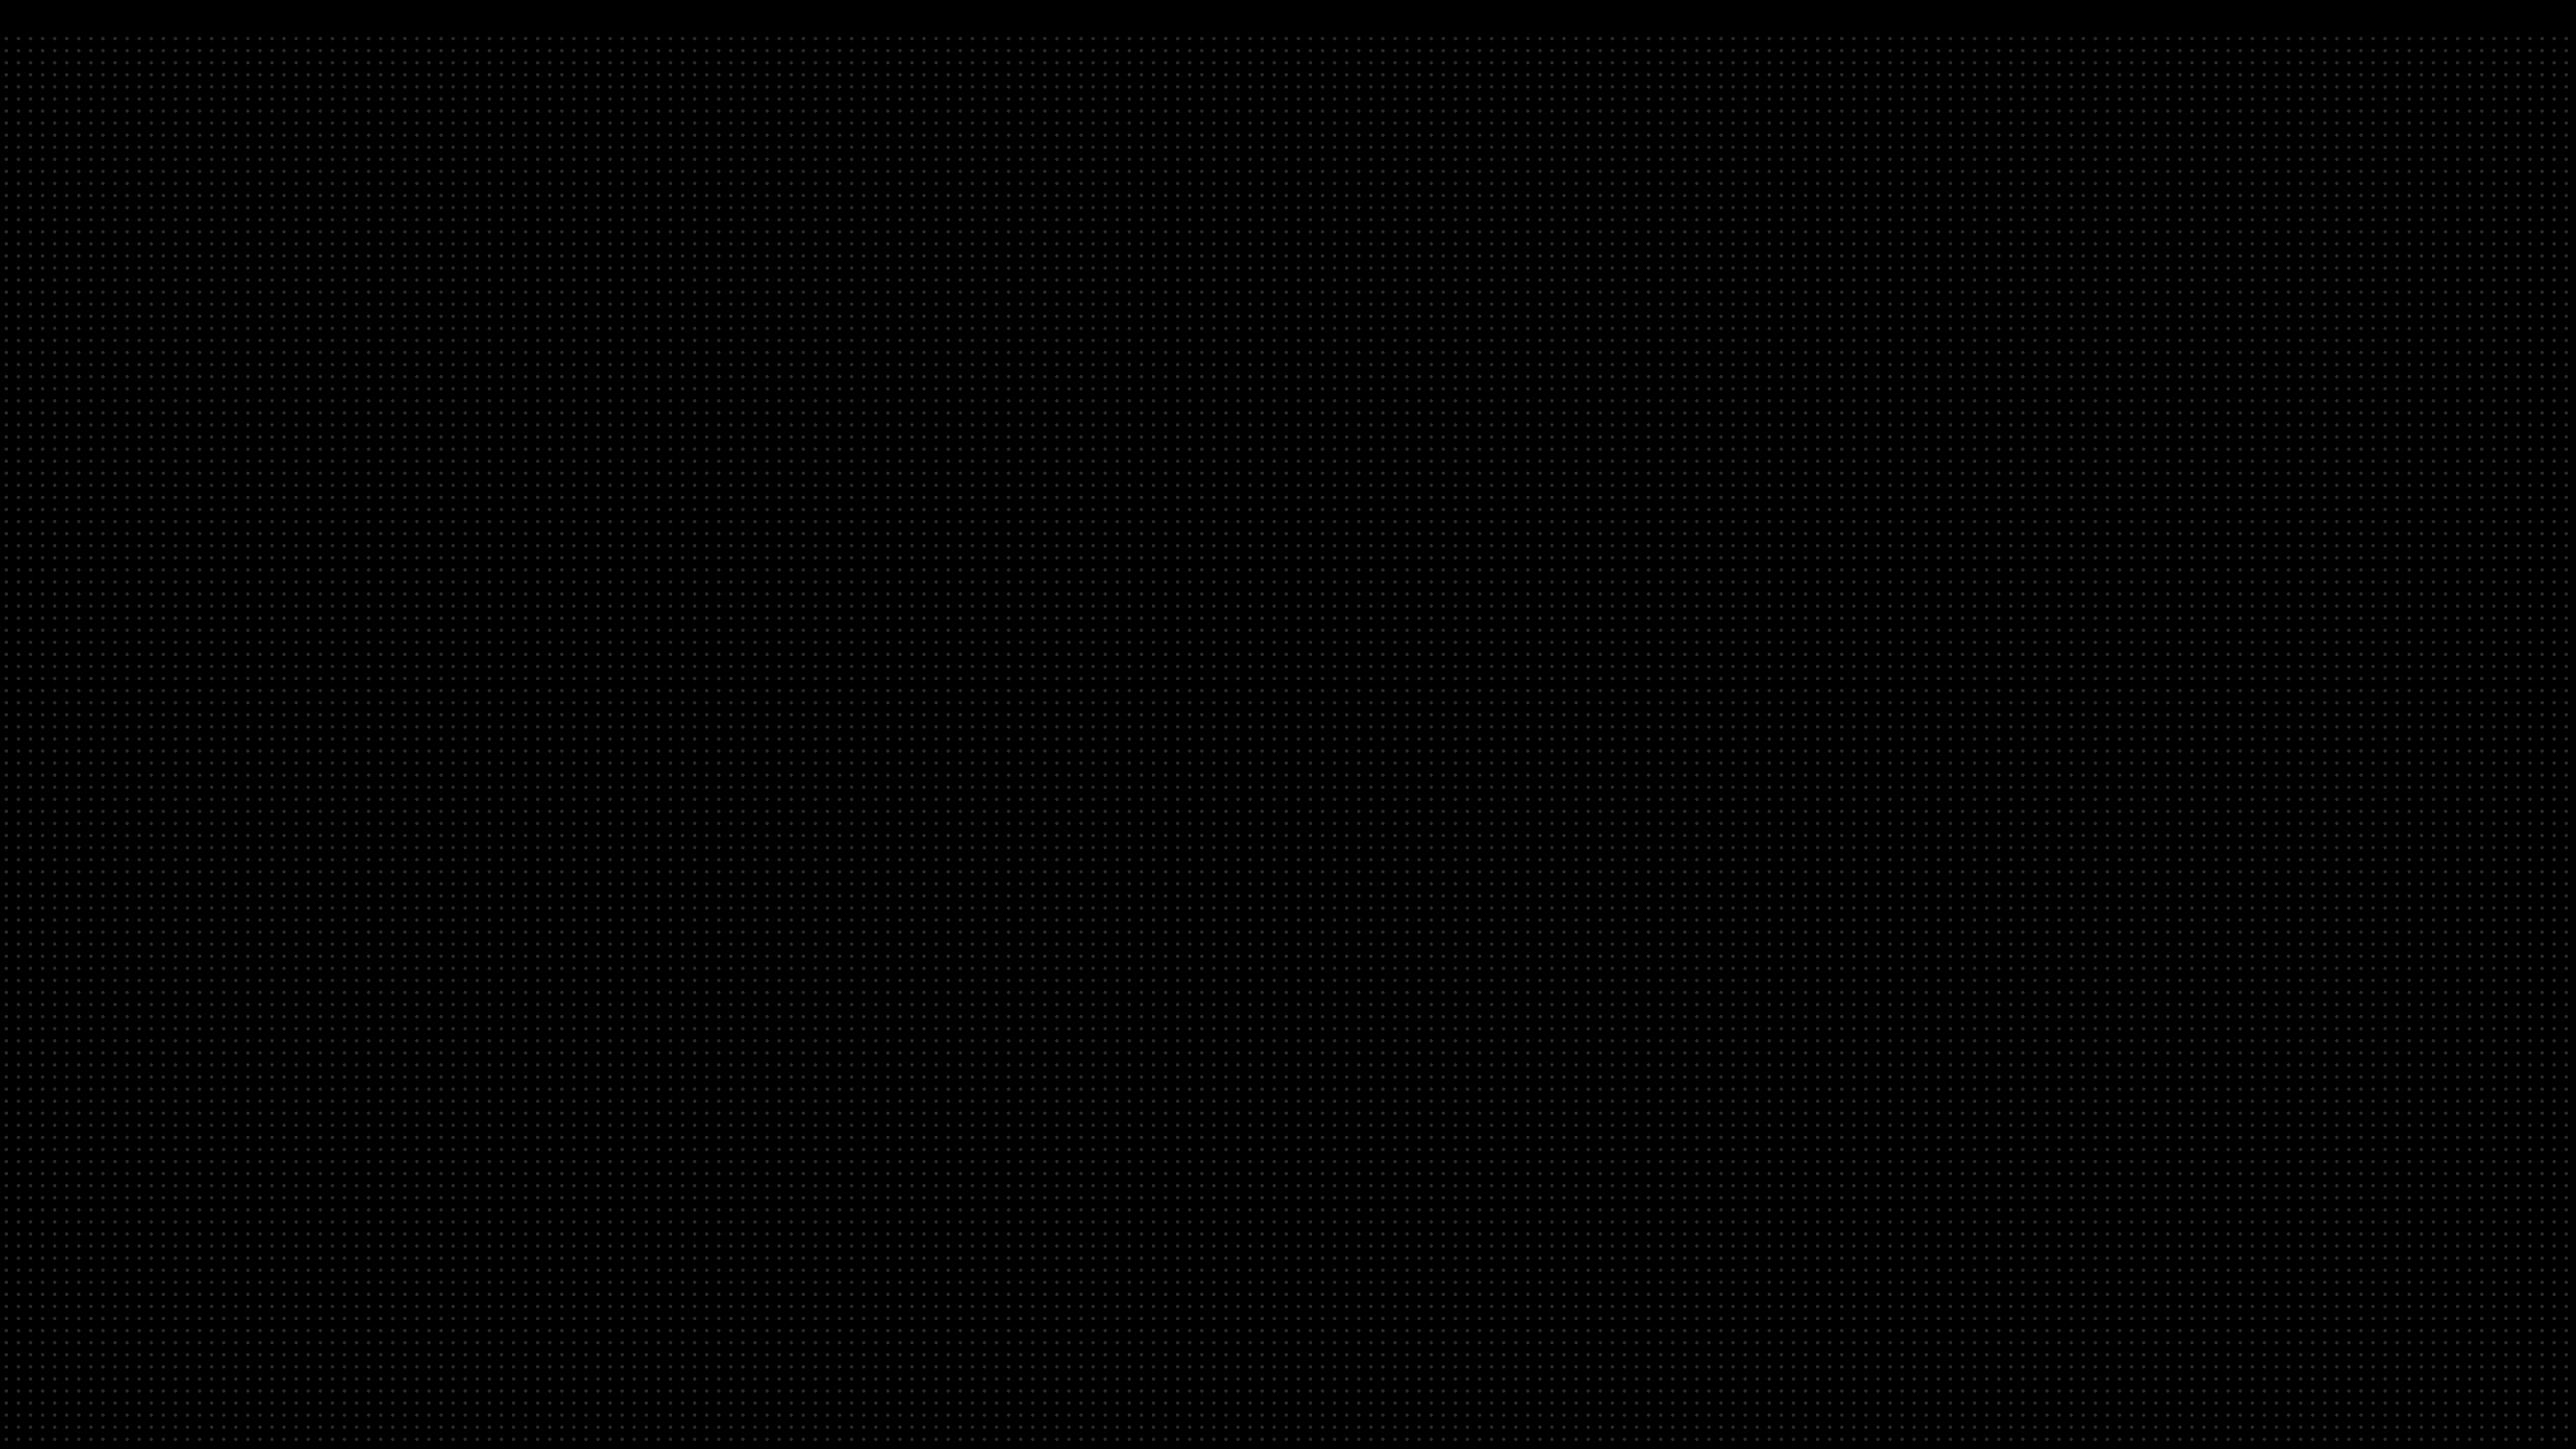
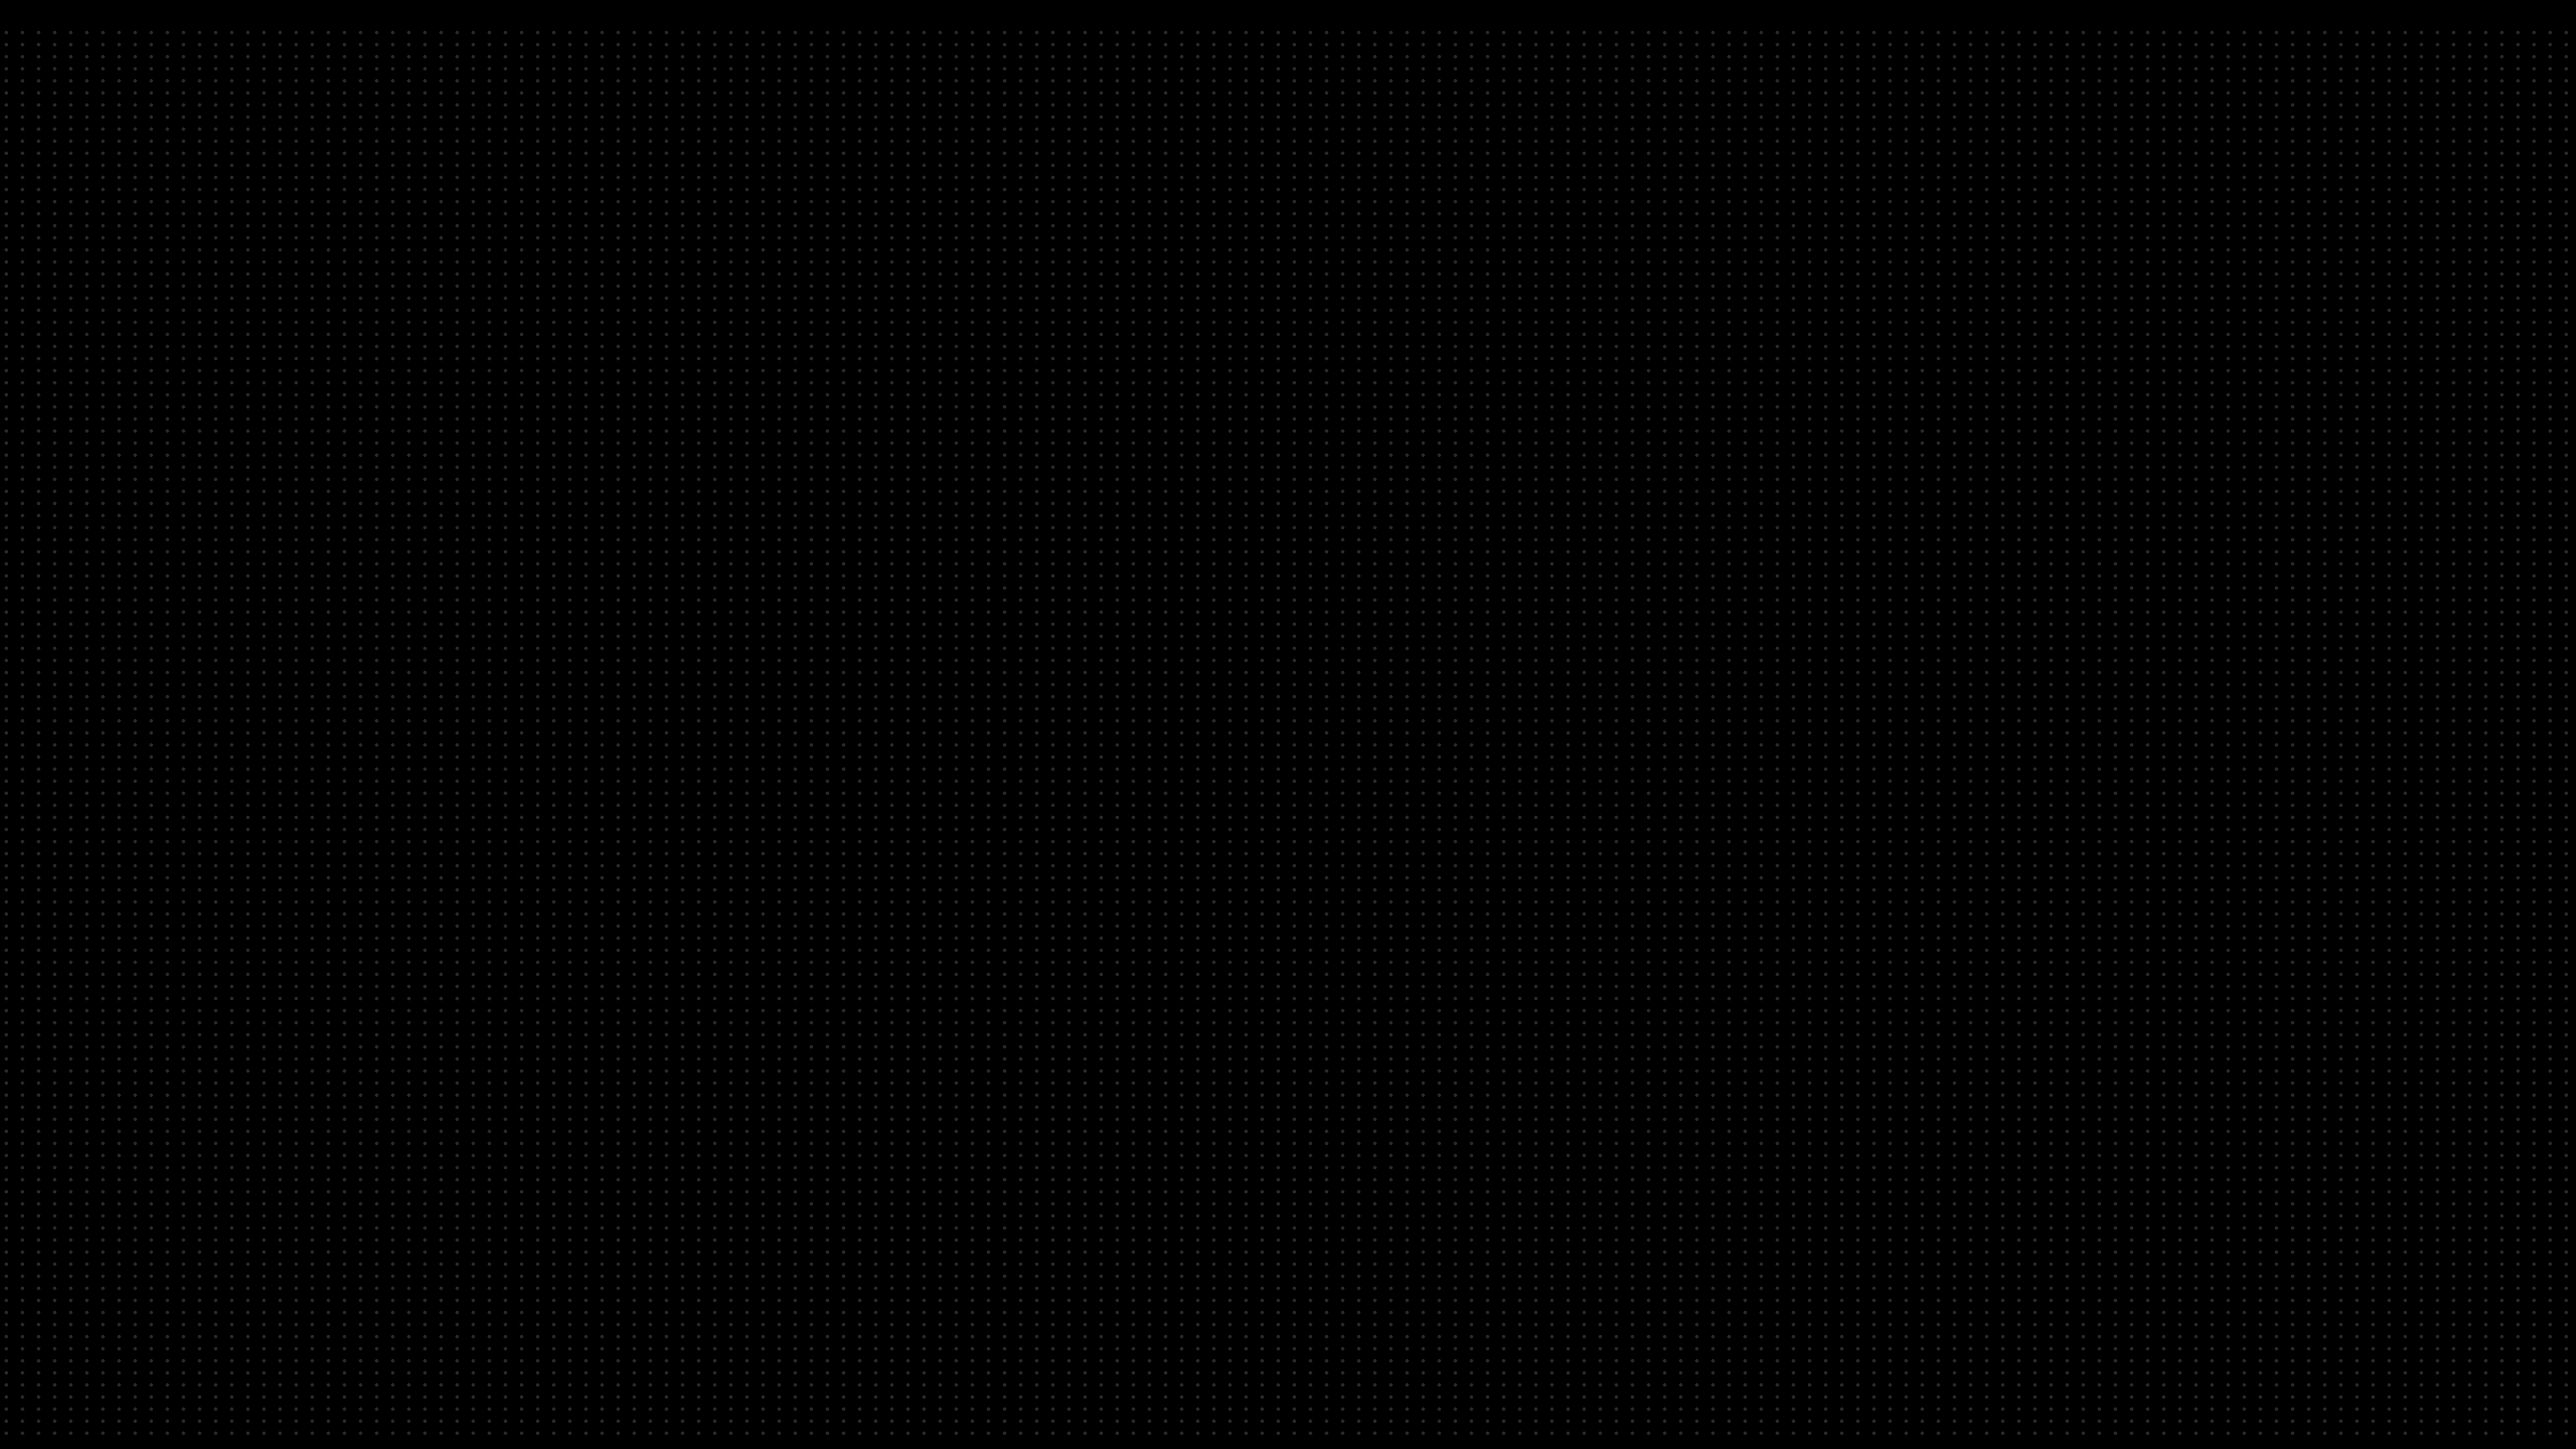
Add configurable margins and grid spacing to wallpaper generator
Updates the wallpaper generator to support independently configurable
margins (top, left, right, bottom) and separate grid spacings for
horizontal and vertical directions. This enhances flexibility for
aligning wallpapers with multi-monitor setups and tiling window
manager gaps.

Adds CLI argument parsing to allow users to specify these parameters
directly from the command line.

Changed region(s): [[0.0, 0.031, 1.0, 0.9926]]

diff --git a/wallpapers/dotted_wallpaper.py b/wallpapers/dotted_wallpaper.py
@@ -16,6 +16,7 @@ You need Pillow installed:
 from __future__ import annotations
 
 from pathlib import Path
+import argparse
 
 from PIL import Image, ImageDraw
 
@@ -23,26 +24,33 @@ from PIL import Image, ImageDraw
 def generate_dotted_wallpaper(
 	width: int = 3840,
 	height: int = 2160,
-	top_bar_height: int = 48,
-	outer_gap: int = 9,
-	grid_spacing: int = 18,
+	top_margin: int = 48,
+	left_margin: int = 9,
+	right_margin: int = 9,
+	bottom_margin: int = 0,
+	grid_spacing_x: int = 18,
+	grid_spacing_y: int = 9,
 	dot_diameter: int = 4,
 	background_color: tuple[int, int, int] = (0, 0, 0),
 	dot_color: tuple[int, int, int] = (40, 40, 40),
 	output_path: Path | str = "dotted_wallpaper.png",
 ) -> Path:
-	"""Generate the dotted wallpaper image and return the output path."""
+	"""Generate the dotted wallpaper image and return the output path.
+
+	Margins and spacing can be tuned independently to align
+	with multi‑monitor layouts and tiling gaps.
+	"""
 
 	img = Image.new("RGB", (width, height), background_color)
 	draw = ImageDraw.Draw(img)
 
 	radius = dot_diameter / 2.0
 
-	# Effective drawable area accounting for top bar and outer gaps.
-	left = outer_gap
-	right = width - outer_gap
-	top = top_bar_height + outer_gap
-	bottom = height - outer_gap
+	# Effective drawable area accounting for margins.
+	left = left_margin
+	right = width - right_margin
+	top = top_margin
+	bottom = height - bottom_margin
 
 	# Ensure we don't go out of bounds even with rounding.
 	def clamp(v: float, lo: float, hi: float) -> float:
@@ -64,14 +72,41 @@ def generate_dotted_wallpaper(
 			)
 			draw.ellipse(bbox, fill=dot_color)
 
-			x += grid_spacing
-		y += grid_spacing
+			x += grid_spacing_x
+		y += grid_spacing_y
 
 	output_path = Path(output_path).expanduser().resolve()
 	img.save(output_path)
 	return output_path
 
 
+def parse_args() -> argparse.Namespace:
+	parser = argparse.ArgumentParser(description="Generate dotted wallpaper")
+	parser.add_argument("--width", type=int, default=3840)
+	parser.add_argument("--height", type=int, default=2160)
+	parser.add_argument("--top-margin", type=int, default=48)
+	parser.add_argument("--left-margin", type=int, default=9)
+	parser.add_argument("--right-margin", type=int, default=9)
+	parser.add_argument("--bottom-margin", type=int, default=9)
+	parser.add_argument("--grid-x", type=int, default=24, help="Horizontal grid spacing in pixels")
+	parser.add_argument("--grid-y", type=int, default=18, help="Vertical grid spacing in pixels")
+	parser.add_argument("--dot-diameter", type=int, default=4)
+	parser.add_argument("--output", type=str, default="dotted_wallpaper.png")
+	return parser.parse_args()
+
+
 if __name__ == "__main__":
-	out = generate_dotted_wallpaper()
+	args = parse_args()
+	out = generate_dotted_wallpaper(
+		width=args.width,
+		height=args.height,
+		top_margin=args.top_margin,
+		left_margin=args.left_margin,
+		right_margin=args.right_margin,
+		bottom_margin=args.bottom_margin,
+		grid_spacing_x=args.grid_x,
+		grid_spacing_y=args.grid_y,
+		dot_diameter=args.dot_diameter,
+		output_path=args.output,
+	)
 	print(f"Generated wallpaper at: {out}")
